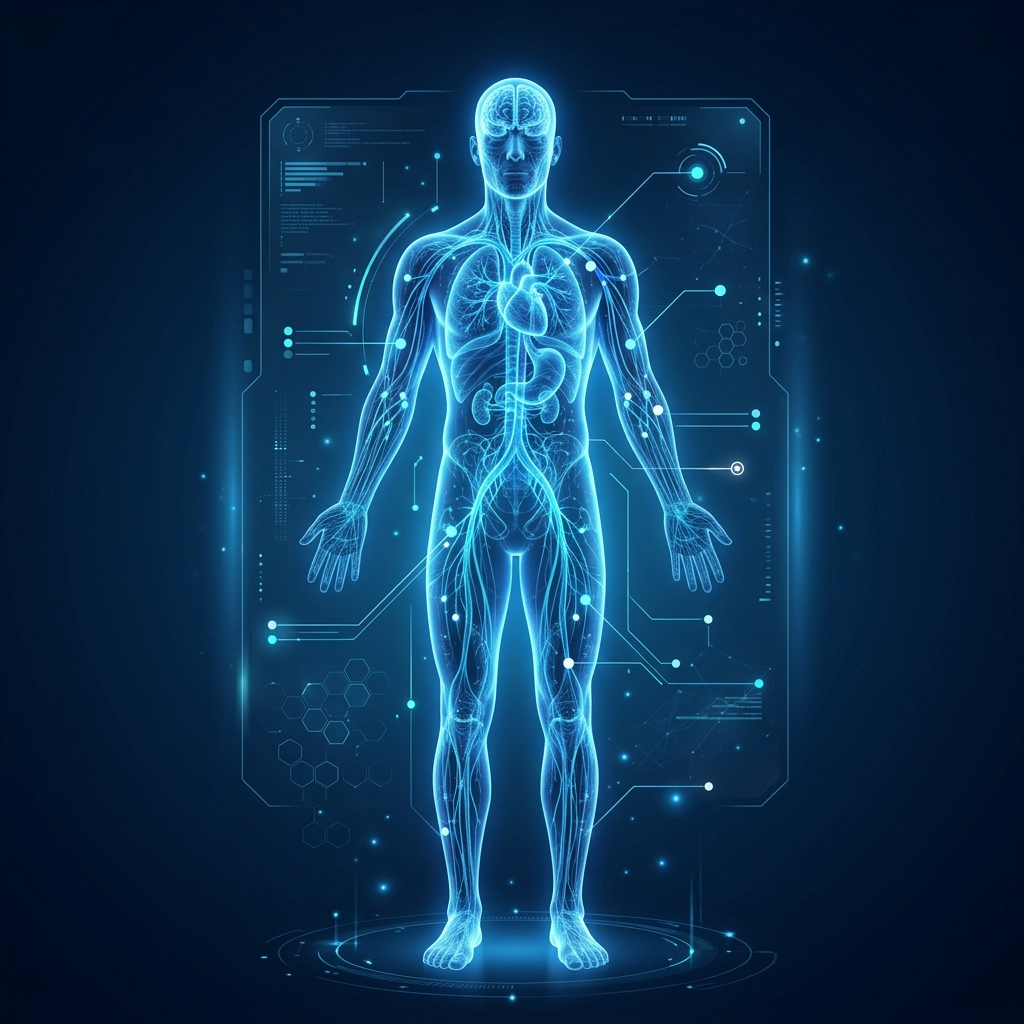
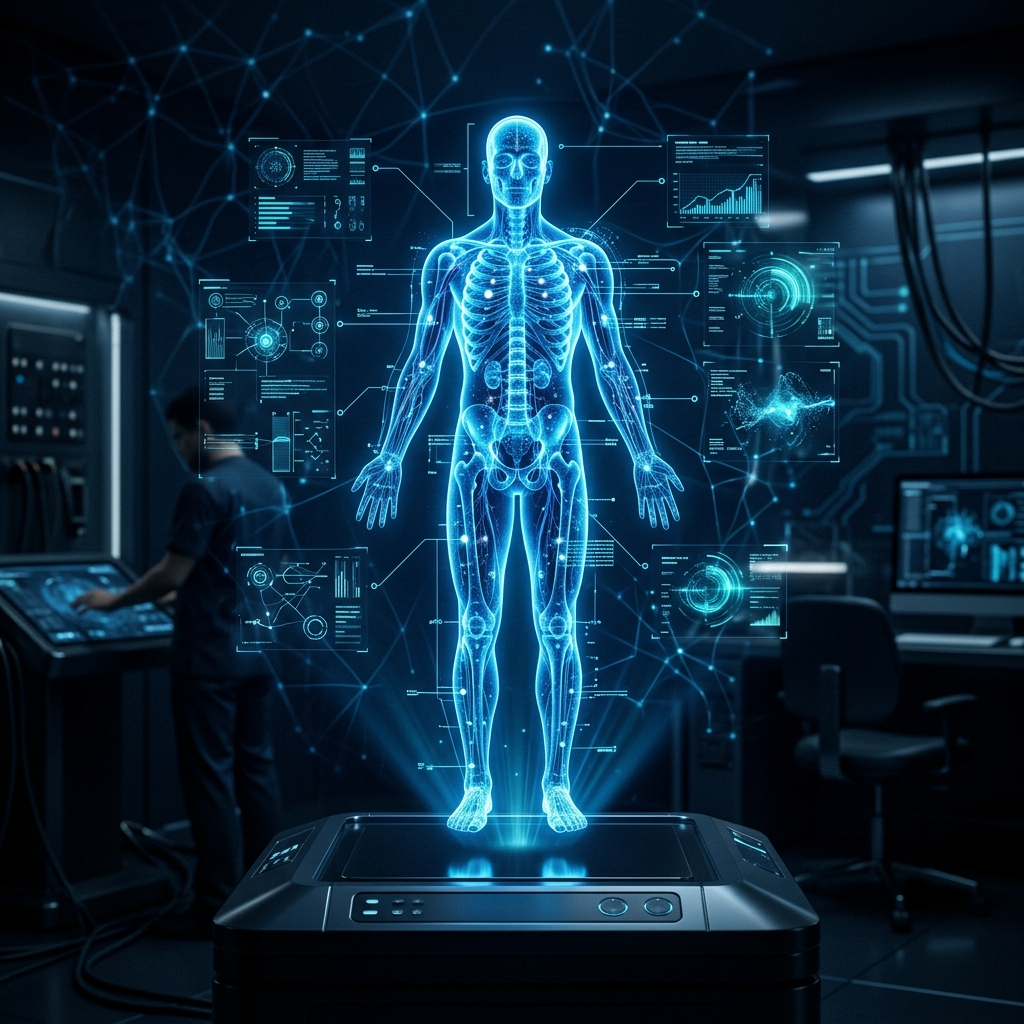
feat: left-align Meet Swasthya Mitra header + add images to feature cards

diff --git a/src/pages/LandingPage.jsx b/src/pages/LandingPage.jsx
@@ -185,67 +185,83 @@ const LandingPage = () => {
           </div>
         </section>
 
-      </div>
-
-      {/* ── 2. Info Section ("Meet ArogyaSetu") ── */}
+            {/* ── 2. Info Section ("Meet Swasthya Mitra") ── */}
       <section id="platform" className="bg-[#F8FAFF] px-6 py-24 border-t border-slate-100">
         <div className="max-w-[88rem] mx-auto">
           
-          {/* Header */}
-          <div className="text-center mb-16 max-w-3xl mx-auto">
+          {/* Header — LEFT aligned to match reference */}
+          <div className="mb-12 max-w-2xl">
             <h2 className="text-[#0A1628] text-4xl font-extrabold mb-4 font-display" style={{ letterSpacing: '-0.02em' }}>
-              Meet ArogyaSetu
+              Meet <span className="text-[#1A6FE8]">Swasthya Mitra</span>
             </h2>
-            <p className="text-[#4A5568] text-base md:text-lg leading-relaxed font-light">
+            <p className="text-[#4A5568] text-base leading-relaxed font-light">
               A unified digital health architecture designed to empower citizens with clinical-grade diagnostics, localized government scheme identification, and instant emergency connectivity.
             </p>
           </div>
 
-          {/* Grid Row 1: 3-column cards */}
+          {/* Grid Row 1: 3-column cards WITH images */}
           <div className="grid grid-cols-1 sm:grid-cols-2 lg:grid-cols-3 gap-6">
             
-            {/* Card 1: Blue background */}
-            <div className="rounded-3xl bg-[#1A6FE8] p-8 min-h-80 flex flex-col justify-between shadow-xl shadow-blue-500/10 hover:scale-[1.01] transition-transform duration-300">
-              <div className="size-12 rounded-2xl bg-white/20 flex items-center justify-center text-white shrink-0">
-                <Activity className="w-6 h-6" />
+            {/* Card 1: Blue — image at top, content at bottom */}
+            <div className="rounded-3xl bg-[#1A6FE8] overflow-hidden min-h-80 flex flex-col shadow-xl shadow-blue-500/10 hover:scale-[1.01] transition-transform duration-300">
+              <div className="relative h-48 w-full shrink-0">
+                <img src="/card_diagnostics.png" alt="AI Diagnostics" className="w-full h-full object-cover" />
+                <div className="absolute inset-0 bg-gradient-to-b from-[#1A6FE8]/10 via-transparent to-[#1A6FE8]" />
               </div>
-              <div>
-                <h3 className="text-white text-2xl font-bold mb-3">
-                  Multimodal Diagnostics
-                </h3>
-                <p className="text-white/80 text-sm leading-relaxed font-light">
-                  Conversational AI that understands regional nuances to provide clinical triage and symptom guidance.
-                </p>
-              </div>
-            </div>
-
-            {/* Card 2: Dark Slate */}
-            <div className="rounded-3xl bg-[#0D1627] p-8 min-h-80 flex flex-col justify-between shadow-xl hover:scale-[1.01] transition-transform duration-300">
-              <div className="size-12 rounded-2xl bg-teal-400/10 flex items-center justify-center text-teal-400 shrink-0">
-                <Sparkles className="w-6 h-6" />
-              </div>
-              <div>
-                <h3 className="text-white text-2xl font-bold mb-3">
-                  Skin Health
-                </h3>
-                <p className="text-white/70 text-sm leading-relaxed font-light">
-                  Localized AI trained on 500k+ diverse Indian skin clinical samples.
-                </p>
+              <div className="p-7 pt-3 flex flex-col gap-3 flex-1 justify-between">
+                <div className="size-10 rounded-xl bg-white/20 flex items-center justify-center text-white shrink-0">
+                  <Activity className="w-5 h-5" />
+                </div>
+                <div>
+                  <h3 className="text-white text-xl font-bold mb-2">
+                    Multimodal Diagnostics
+                  </h3>
+                  <p className="text-white/80 text-sm leading-relaxed font-light">
+                    Conversational AI that understands regional nuances to provide clinical triage and symptom guidance.
+                  </p>
+                </div>
               </div>
             </div>
 
-            {/* Card 3: White card with border */}
-            <div className="rounded-3xl bg-white border border-[#EBF2FF] p-8 min-h-80 flex flex-col justify-between shadow-sm hover:scale-[1.01] transition-transform duration-300">
-              <div className="size-12 rounded-2xl bg-blue-50 flex items-center justify-center text-[#1A6FE8] shrink-0">
-                <ShieldCheck className="w-6 h-6" />
+            {/* Card 2: Dark Slate — image at top, content at bottom */}
+            <div className="rounded-3xl bg-[#0D1627] overflow-hidden min-h-80 flex flex-col shadow-xl hover:scale-[1.01] transition-transform duration-300">
+              <div className="relative h-48 w-full shrink-0">
+                <img src="/card_skin_health.png" alt="Skin Health AI" className="w-full h-full object-cover" />
+                <div className="absolute inset-0 bg-gradient-to-b from-[#0D1627]/10 via-transparent to-[#0D1627]" />
               </div>
-              <div>
-                <h3 className="text-[#0A1628] text-2xl font-bold mb-3">
-                  Ayushman Bharat
-                </h3>
-                <p className="text-[#4A5568] text-sm leading-relaxed font-light">
-                  Instant eligibility check for PM-JAY and other state-sponsored schemes.
-                </p>
+              <div className="p-7 pt-3 flex flex-col gap-3 flex-1 justify-between">
+                <div className="size-10 rounded-xl bg-teal-400/10 flex items-center justify-center text-teal-400 shrink-0">
+                  <Sparkles className="w-5 h-5" />
+                </div>
+                <div>
+                  <h3 className="text-white text-xl font-bold mb-2">
+                    Skin Health
+                  </h3>
+                  <p className="text-white/70 text-sm leading-relaxed font-light">
+                    Localized AI trained on 500k+ diverse Indian skin clinical samples.
+                  </p>
+                </div>
+              </div>
+            </div>
+
+            {/* Card 3: White — image at top, content at bottom */}
+            <div className="rounded-3xl bg-white border border-[#EBF2FF] overflow-hidden min-h-80 flex flex-col shadow-sm hover:scale-[1.01] transition-transform duration-300">
+              <div className="relative h-48 w-full shrink-0">
+                <img src="/card_ayushman.png" alt="Ayushman Bharat" className="w-full h-full object-cover" />
+                <div className="absolute inset-0 bg-gradient-to-b from-white/5 via-transparent to-white" />
+              </div>
+              <div className="p-7 pt-3 flex flex-col gap-3 flex-1 justify-between">
+                <div className="size-10 rounded-xl bg-blue-50 flex items-center justify-center text-[#1A6FE8] shrink-0">
+                  <ShieldCheck className="w-5 h-5" />
+                </div>
+                <div>
+                  <h3 className="text-[#0A1628] text-xl font-bold mb-2">
+                    Ayushman Bharat
+                  </h3>
+                  <p className="text-[#4A5568] text-sm leading-relaxed font-light">
+                    Instant eligibility check for PM-JAY and other state-sponsored schemes.
+                  </p>
+                </div>
               </div>
             </div>
 